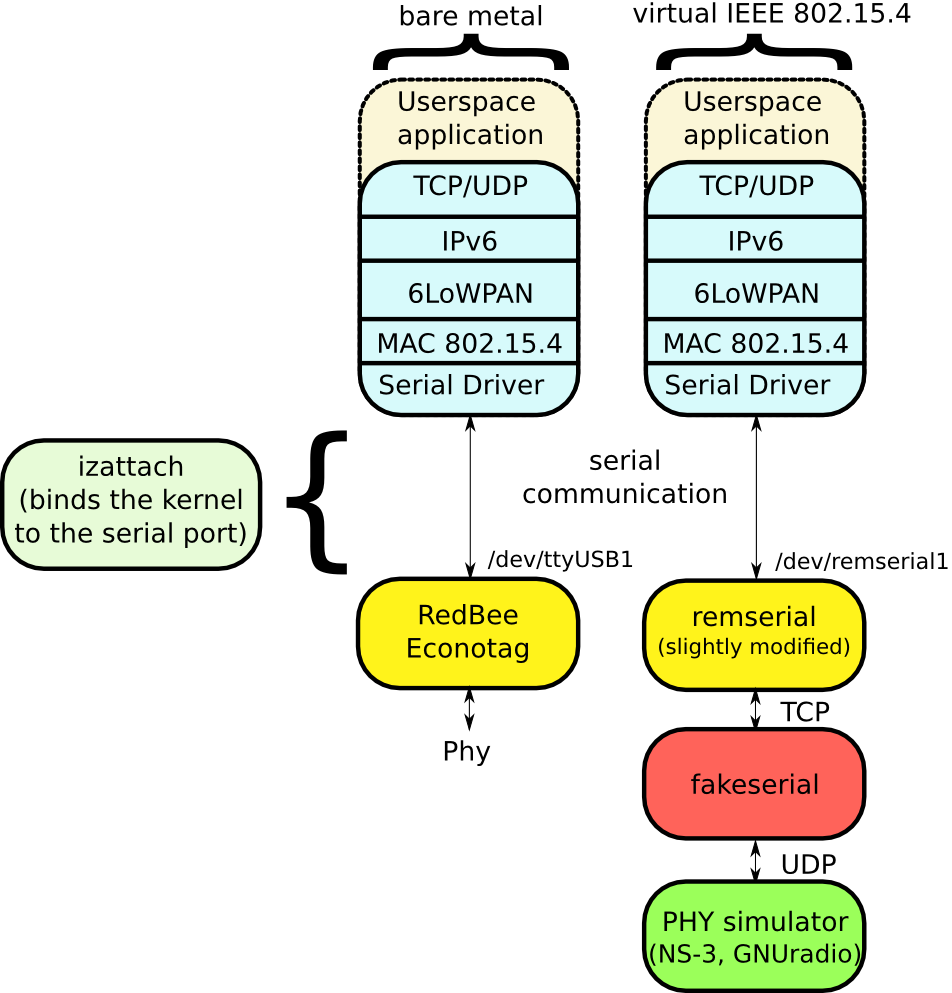
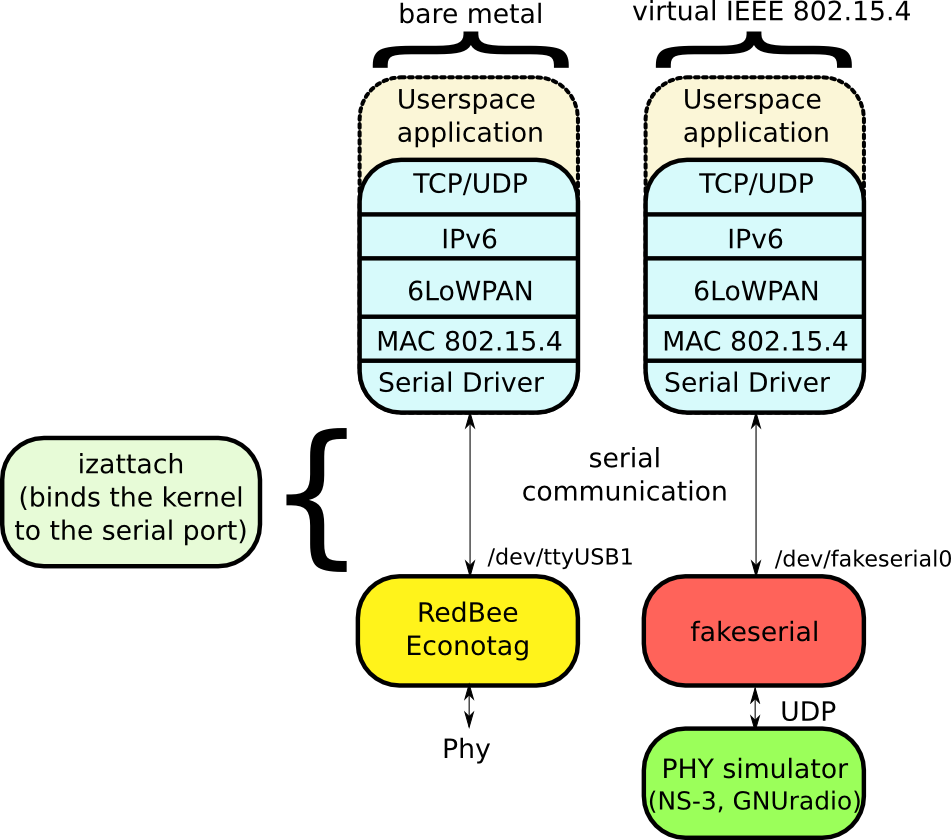
Update the documentation to reflect that fakeserial now creates its own PTY.

diff --git a/README.md b/README.md
@@ -11,16 +11,15 @@ are connected to a computer through a regular USB interface and present a
 serial port to the computer in order to drive the wireless communications (left
 column of the figure above). The commands that are accepted on this serial port
 have been standardized and are described on the [following
-link](http://sourceforge.net/apps/trac/linux-zigbee/wiki/SerialV1) On Linux,
+link](http://sourceforge.net/apps/trac/linux-zigbee/wiki/SerialV1). On Linux,
 the driver that handle this protocol and attaches to the serial port of devices
 is called *serial.ko*.
 A hook is userspace, named *izattach* is required in order to actually attach
 the serial port to the IEEE 802.15.4 stack of the Linux kernel.
-This software, named *fakeserial*, works in combination with [remserial](http://lpccomp.bc.ca/remserial/) and
-provides a replacement for a real hardware and provides a virtual serial port
-for the communications (as illustrated in the right column above). It enables
-new uses for the Linux IEEE 802.15.4 and 6LoWPAN stacks, such as debugging,
-or testbed virtualization.
+This software, named *fakeserial*, provides a replacement for a real hardware
+and provides a virtual serial port for the communications (as illustrated in
+the right column above). It enables new uses for the Linux IEEE 802.15.4 and
+6LoWPAN stacks, such as debugging, or testbed virtualization.
 
 What is the benefit of this approach?
 -------------------------------------
@@ -34,29 +33,30 @@ Because we mimic the functioning of an Econotag device, one could do the followi
 	* reliably debug the 6LoWPAN stack
 * connect the 6LoWPAN stack to a network simulator, like NS-3
     * enable large scale virtualized IEEE 802.15.4 experiments
-* feed valid IEEE 802.15.4 frame to GNURadio and provide a real network stack for existing physical layers.
+* provide valid IEEE 802.15.4 frames to GNURadio and connect a real network stack to existing physical layers.
 
 How does it work?
 -----------------
 
 The RedBee Econotag uses a userspace tool named *izattach* to bind a serial
 port to the IEEE 802.15.4 serial driver (*"serial.ko"*). Instead of binding to
-the serial port presented an Econotag, we use *remserial* to create a fake
-serial port, that redirect all the serial traffic through *fakeserial*.
-*fakeserial* then analyse the protocol and emulate the functioning of a Econotag.
+the serial port presented an Econotag, we use *fakeserial* to create a fake
+serial port, that redirect all the serial traffic to a UDP-enabled server that emulates the PHY layer.
+For each request from the kernel, *fakeserial* analyse the protocol and emulate the functioning of a Econotag.
 
 Dependencies
 ------------
 
-* [remserial](http://lpccomp.bc.ca/remserial/) (needs to be patched to work at faster baudrate)
+* none (aside from a Linux kernel with a functional 6LoWPAN kernel and the serial driver)
 
 Usage
 -----
 
 This program mimics the behavior of a IEEE 802.15.4 Serial device (e.g. RedBee Econotag)
 
-	usage: ./fakeserial -t portnum -d destaddr -l portnum -r portnum
-	-t, --tcp-local: local TCP port to be bound
+	usage: ./fakeserial -d destaddr -l portnum -r portnum [-b baudrate] [-n devicename]
+	-b, --baudrate: baudrate of the fake serial port (default "921600")
+	-n, --device-name: name of the fake serial port (default "/dev/fakeserial0")
 	-d, --udp-dest: destination address for the UDP traffic sent to the backend
 	-l, --udp-local-port: local udp port to be bound
 	-r, --udp-remote-port: remote UDP port to connect to and to bind locally
@@ -66,17 +66,13 @@ This program mimics the behavior of a IEEE 802.15.4 Serial device (e.g. RedBee E
 Example of usage
 ----------------
 
-Both *remserial* and *fakeserial* offer network capabilities and can work on
-different hosts. In this example, we'll use three nodes:
+*fakeserial* offers network capabilities such that it can work on
+different hosts. In this example, we'll use two nodes:
 
 * *6lowpan-node*: node whose 6LoWPAN stack will be used
-    - a */dev/remserial1* device will be created on this node using *remserial*
+    - a */dev/fakeserial0* device will be created on this node using *fakeserial*
     - all the data that goes of this port is sent to *fakeserial* (running on a
-    different node) using a TCP connection (destination port 4444)
-* *relay-node*: node that receives all the serial traffic and runs *fakeserial*
-    - all the traffic from *6lowpan-node* is encapsulated/decapsulated in *fakeserial*
-    - this traffic is then sent to *phy-node* using a UDP connection (source port
-    4444, destination port 3333)
+    different node) using a UDP connection (destination port 3333)
 * *phy-node*: a node that runs a physical layer simulation program
 
 
@@ -85,17 +81,12 @@ do the following preliminary steps.
 
 On *6lowpan-node*:
 
-	remserial -s 921600 -r relay-node -p 4444 -l /dev/remserial1 /dev/ptmx
-
-On *relay-node*:
-
-	./fakeserial -t 4444 -d phy-node -l 4444 -r 3333
+	./fakeserial -n /dev/fakeserial0 -d phy-node -l 4444 -r 3333
 
 Then you can run the regular steps for setting up a IEEE 802.15.4 node (using
 the serial driver).
 
-Note that *6lowpan-node*, *relay-node* and *phy-node* can be collocated on the
-same node.
+Note that *6lowpan-node* and *phy-node* can be collocated on the same node.
 
 Authors
 -------
